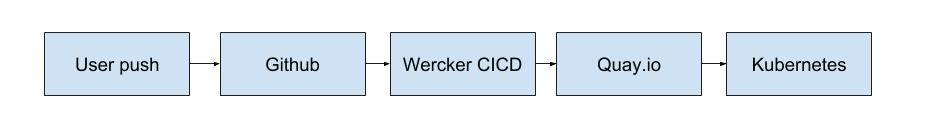
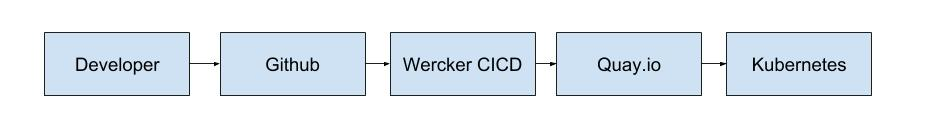
README

Changed region(s): [[0.0623, 0.4634, 0.1869, 0.6098]]

diff --git a/README.md b/README.md
@@ -2,9 +2,17 @@
 
 DevOps example
 
-The goal of this example is to automate CICD process and Kubernetes cluster creation/deletion.
-
 ![dopsch diagram](dopsch.jpg?raw=true "diagram")
+
+This example:
+- automates CICD process to build and deploy application image 
+- has scripts to create Kubernetes cluster in Google cloud, all necessary tools and deploy image
+
+CICD Process goes like this:
+- Developer pushes code to Github
+- Wercker CICD builds and deploys image to Quay.io
+
+Kubernetes cluster is created with ./cluster_create.sh and the sample helm chart is deployed to install the image
 
 To do this I assume you have:
 
